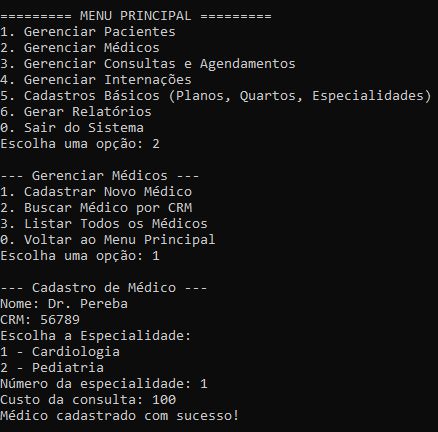
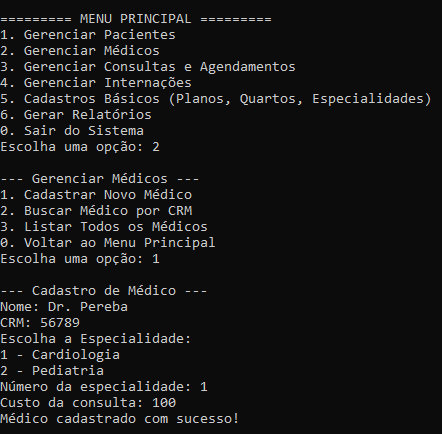
Corrigindo o readme e as prints

Changed region(s): [[0.0, 0.3912, 0.5639, 0.9931], [0.0, 0.0, 0.9795, 0.3611]]

diff --git a/README.md b/README.md
@@ -42,6 +42,7 @@ Desenvolvimento de um sistema de gerenciamento hospitalar utilizando os conceito
          java -cp bin App
 
 3. **Estrutura de Pastas:**  
+```
  App 
 ├── src/
 │   │
@@ -96,6 +97,7 @@ Desenvolvimento de um sistema de gerenciamento hospitalar utilizando os conceito
 │       └── RelatorioService.java (Fachada de Relatórios)
 │ 
 └── README.md
+```
 
 3. **Versão do JAVA utilizada:**  
    javac 21.0.8
@@ -104,20 +106,20 @@ Desenvolvimento de um sistema de gerenciamento hospitalar utilizando os conceito
 
 ## Vídeo de Demonstração
 
-[Video no Drive](https://drive.google.com/file/d/1EofTG9vU47HSjfcHRXq5aMNHm1enmrzU/view?usp=sharing)
+[Video no Drive](https://drive.google.com/file/d/1tReBE4lgGKUPIYl0svAe5IRqCD9AYhBW/view?usp=sharing)
 
 ---
 
 ## Prints da Execução
 
 1. Menu Principal:  
-   ![menu principal](Prints/image.png)
+   ![Menu Principal](App/Prints/image.png)
 
 2. Cadastro de Médico:  
-   ![cadastro medico](Prints/image-2.png)
+   ![Cadastro Medico](App/Prints/image-2.png)
 
 3. Relatório de Internações:  
-   ![relatorio internações](Prints/image-3.png)
+   ![Relatorio Internações](App/Prints/image-3.png)
 
 ---
 
